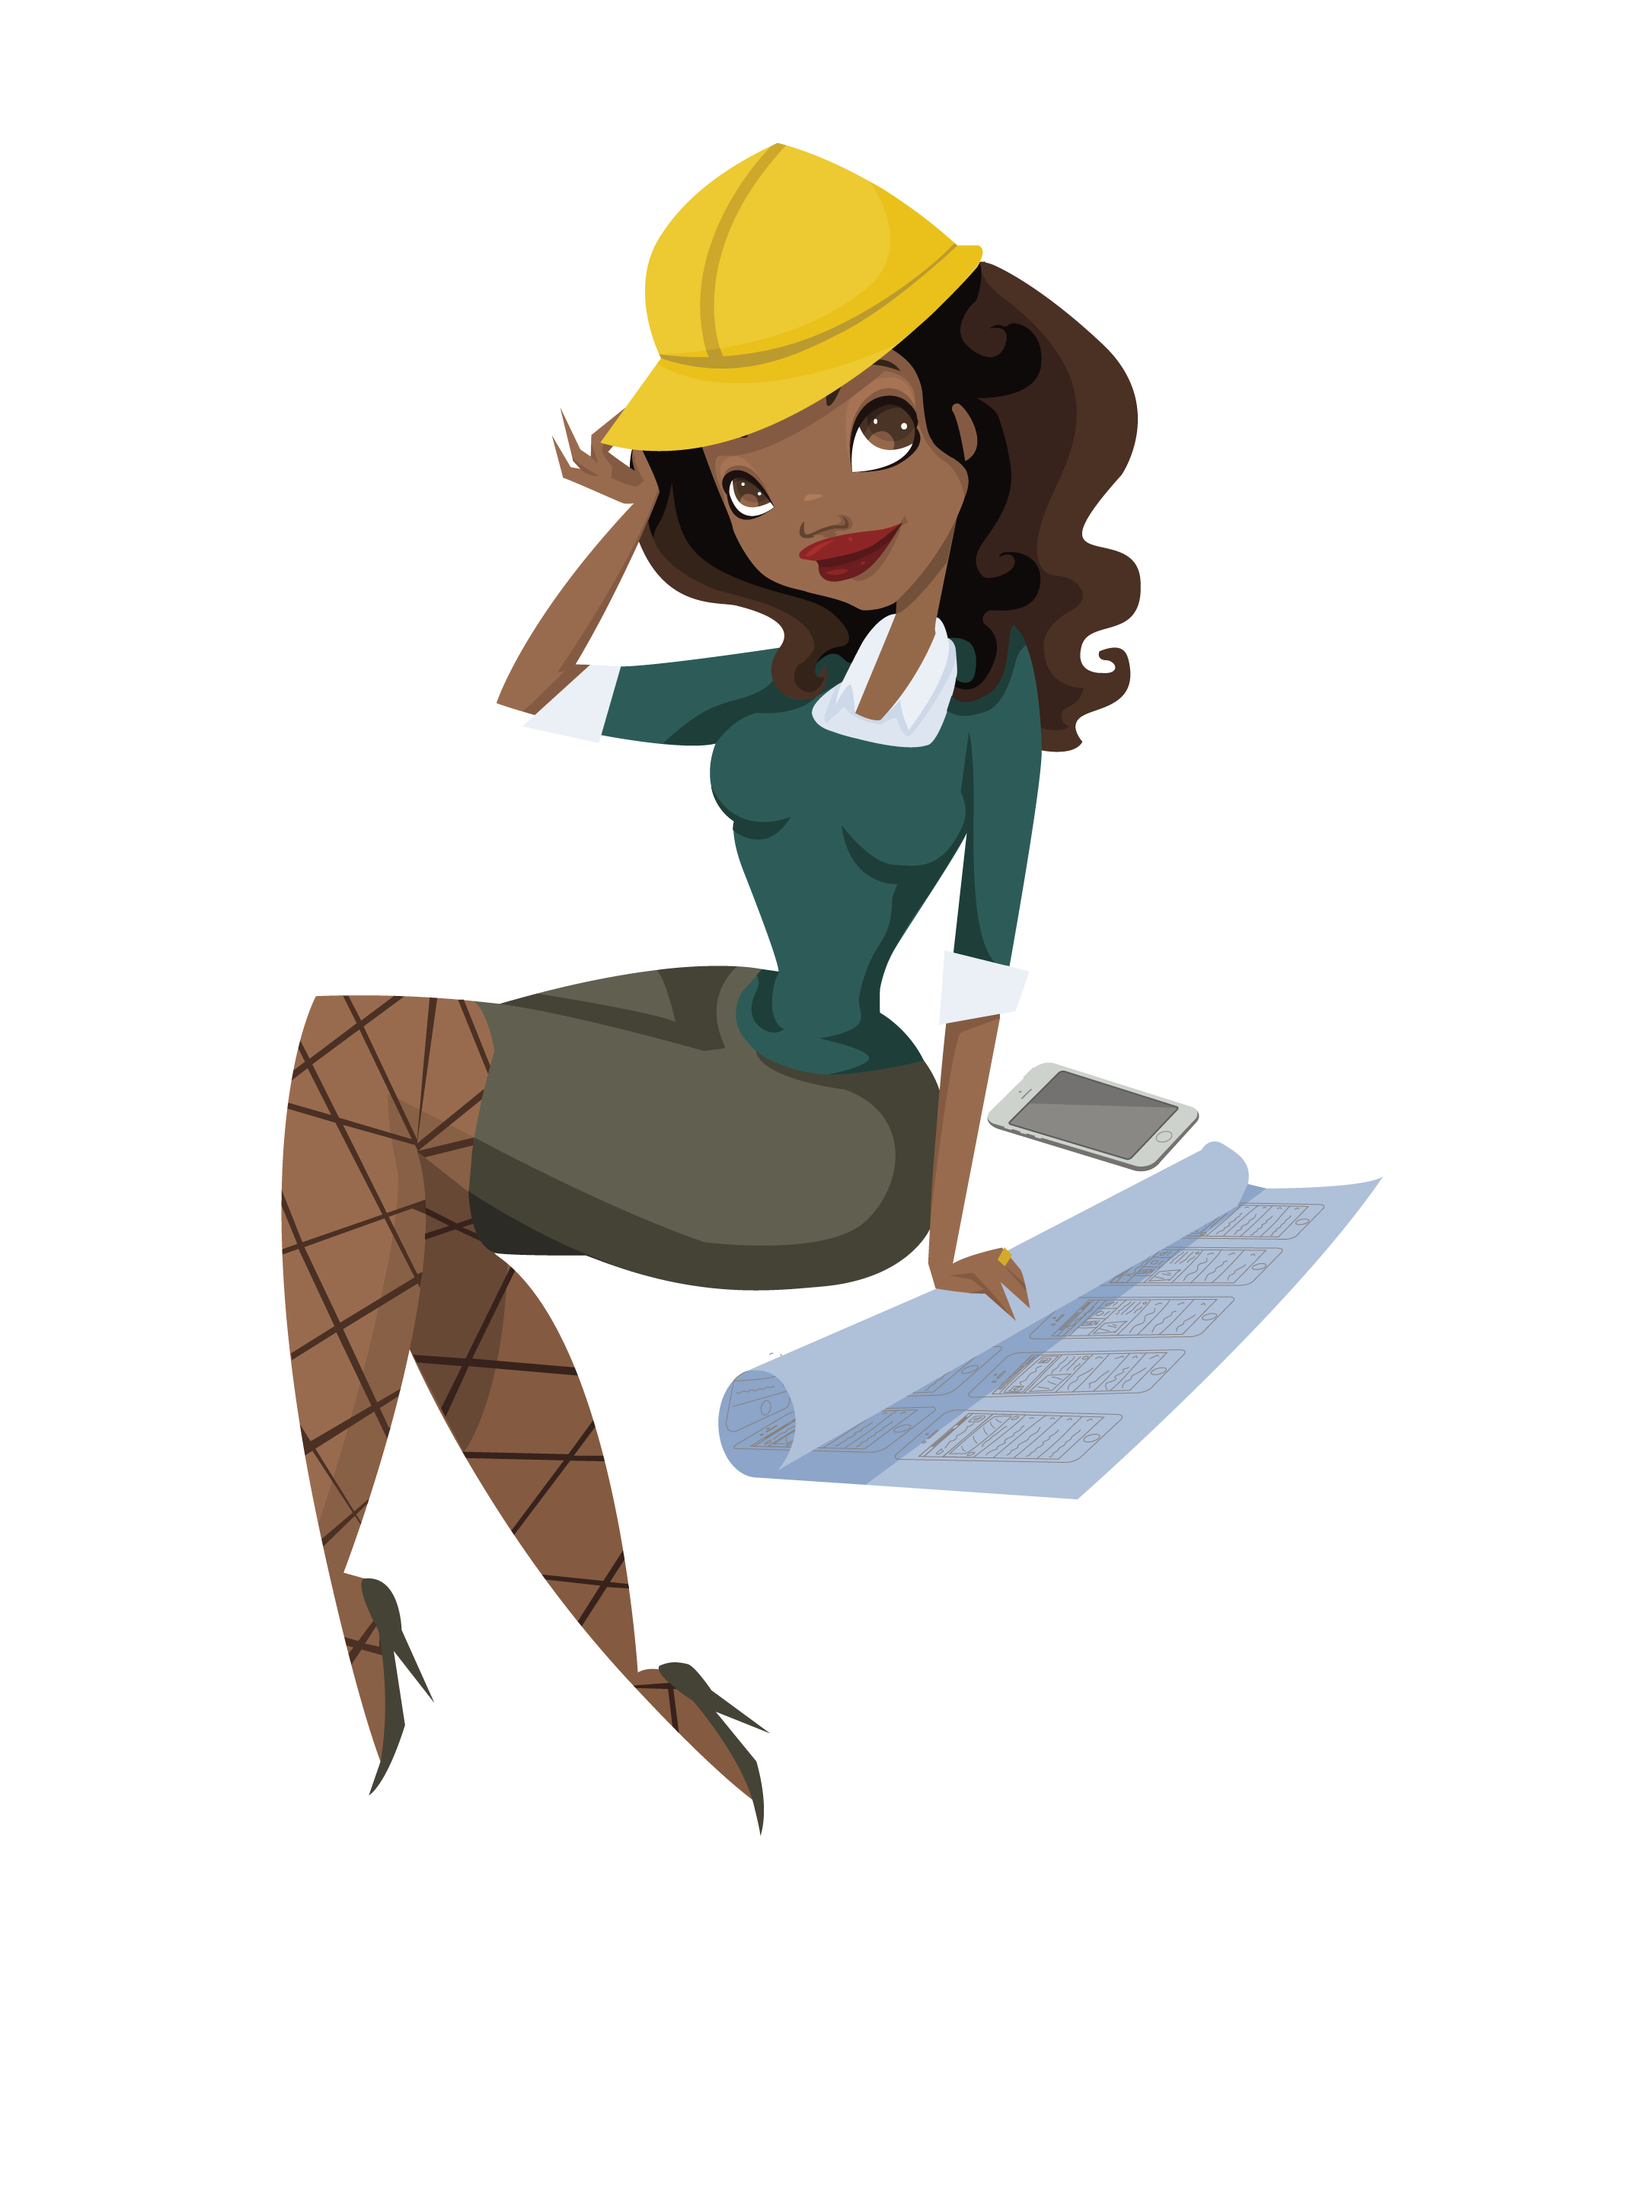
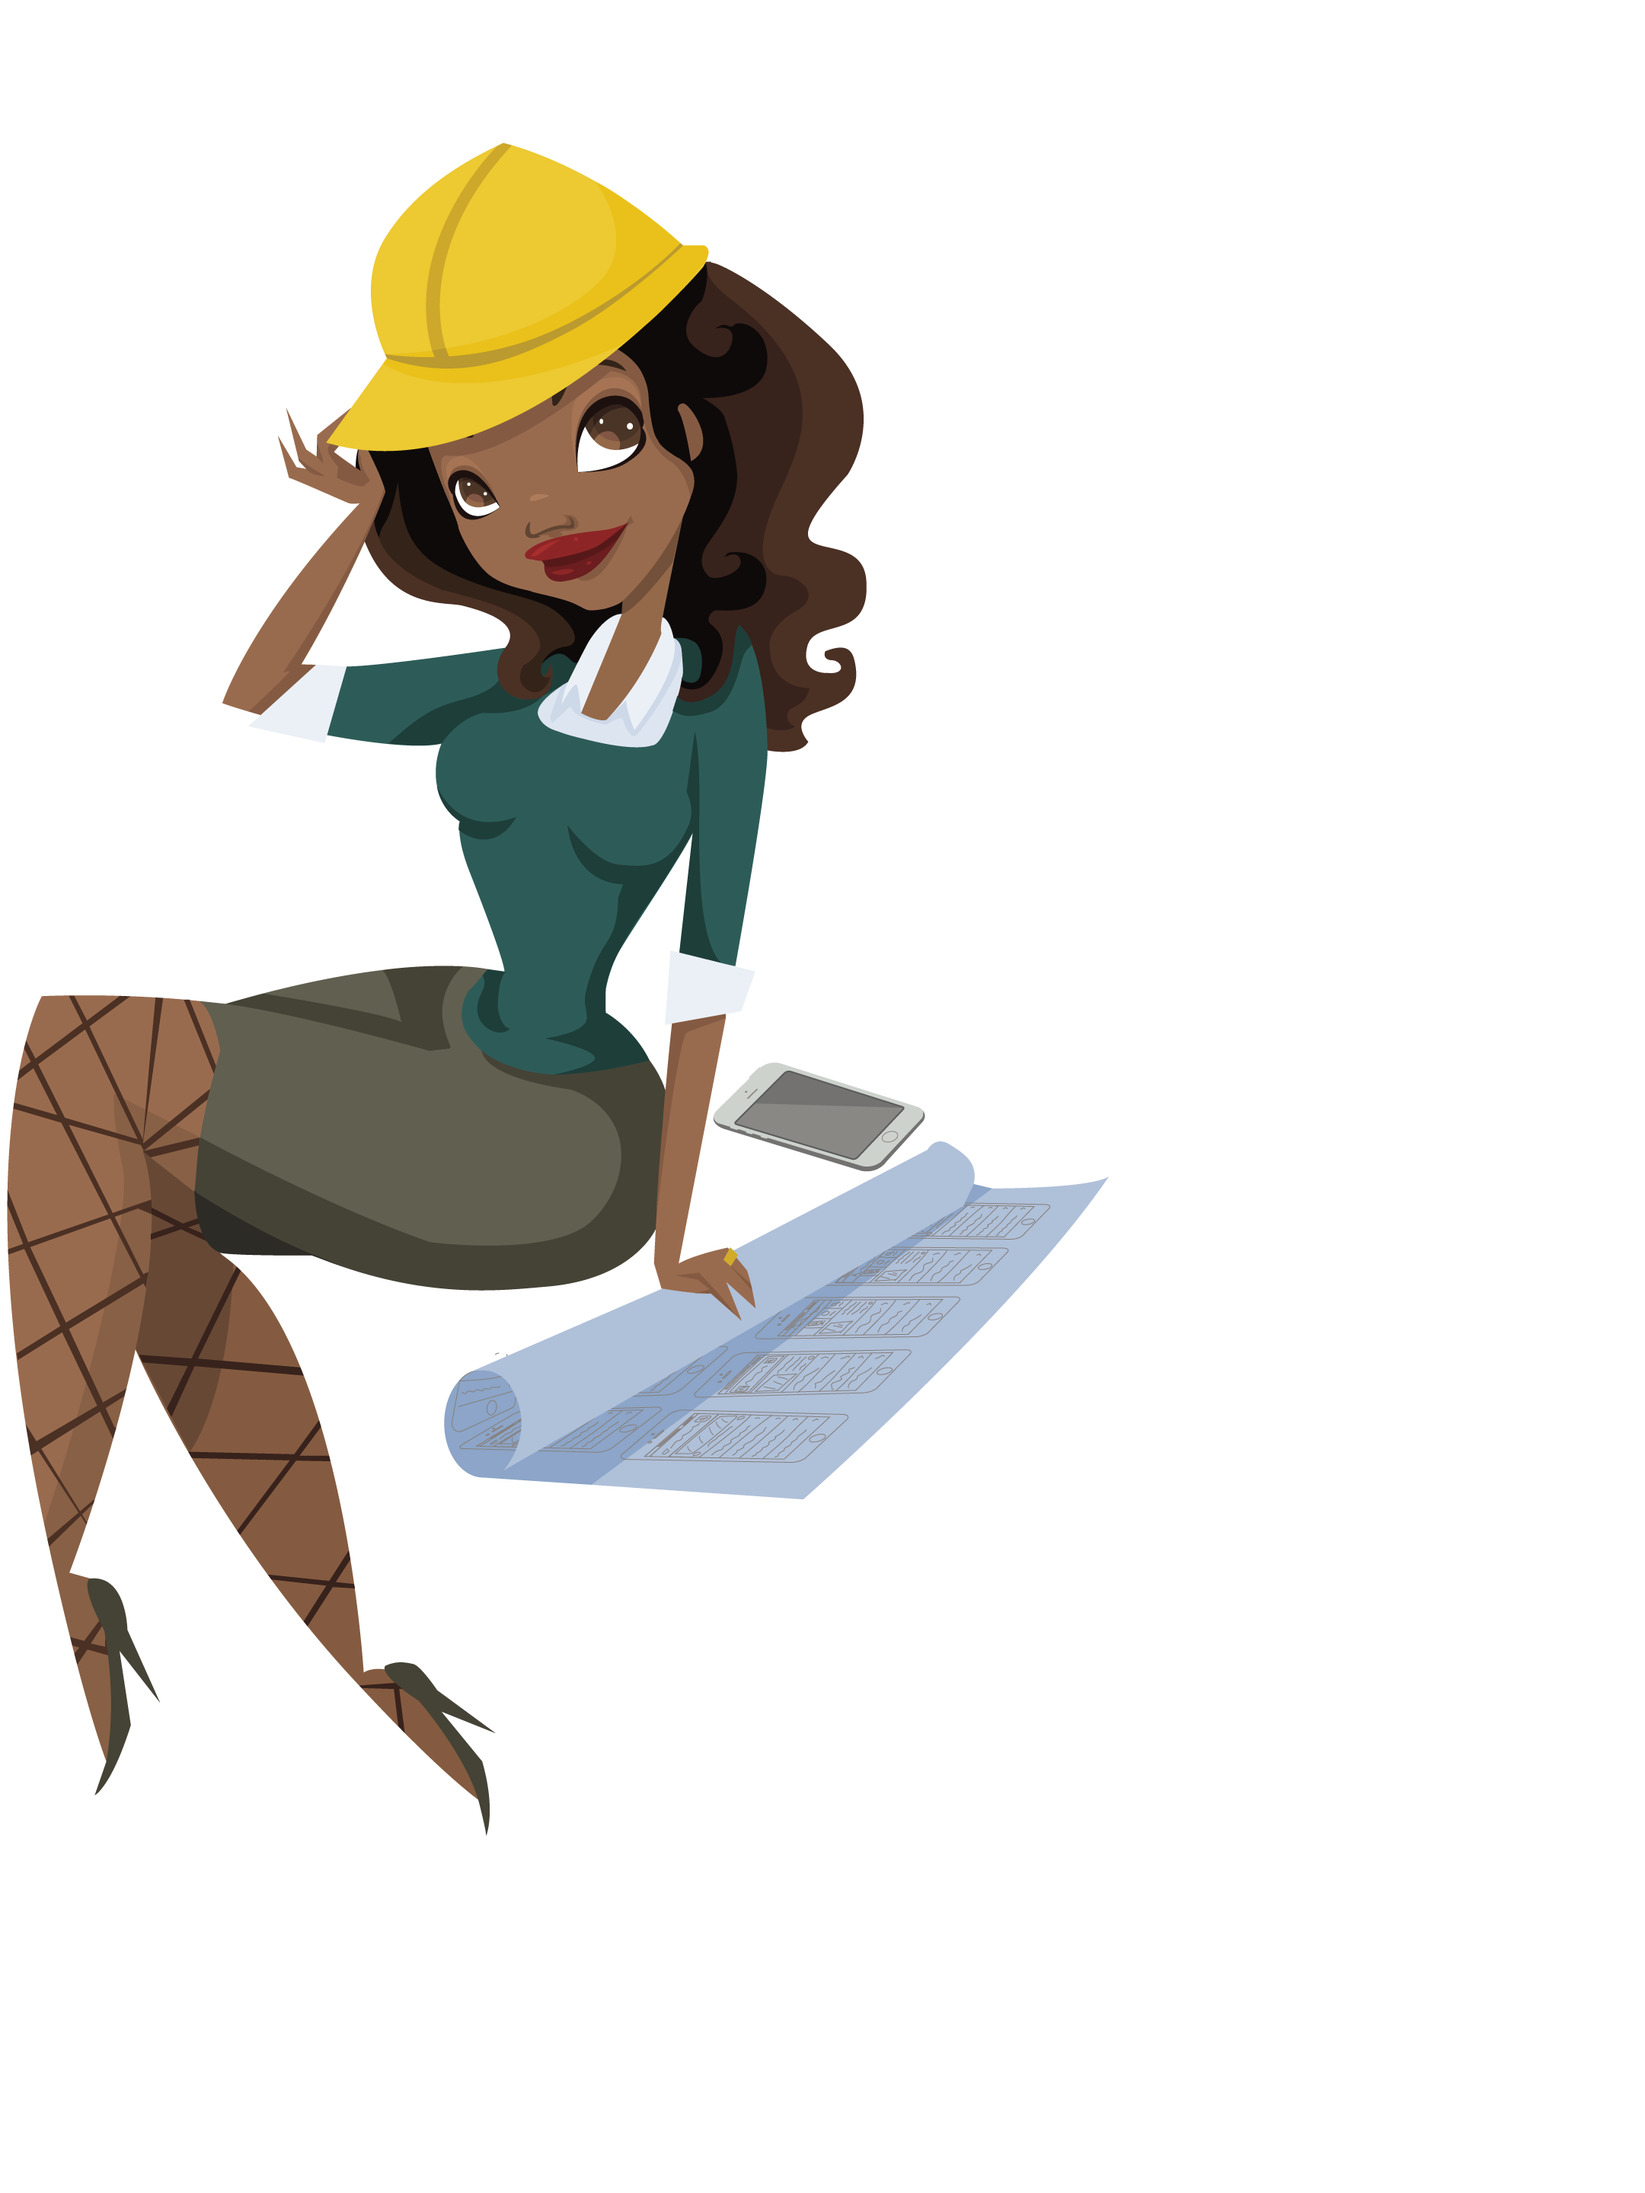
Created route, view and controller action to view static page gifts.

Changed region(s): [[0.0, 0.0625, 0.8375, 0.8438]]

diff --git a/config/routes.rb b/config/routes.rb
@@ -5,7 +5,7 @@ Rails.application.routes.draw do
 
      get '/conditions', to: 'static#conditions', as: 'conditions'
      get '/gifts', to: 'static#gifts', as: 'gifts'
-
+     get '/blueprint', to: 'static#blueprint', as: 'blueprint'
 
      get '/reservations/new', to: 'reservations#new', as: 'add_reservation'
      post '/reservations', to: 'reservations#create'

diff --git a/app/controllers/static_controller.rb b/app/controllers/static_controller.rb
@@ -7,4 +7,8 @@ class StaticController < ApplicationController
 
      def gifts
      end
+
+     def blueprint
+     end
+
 end
